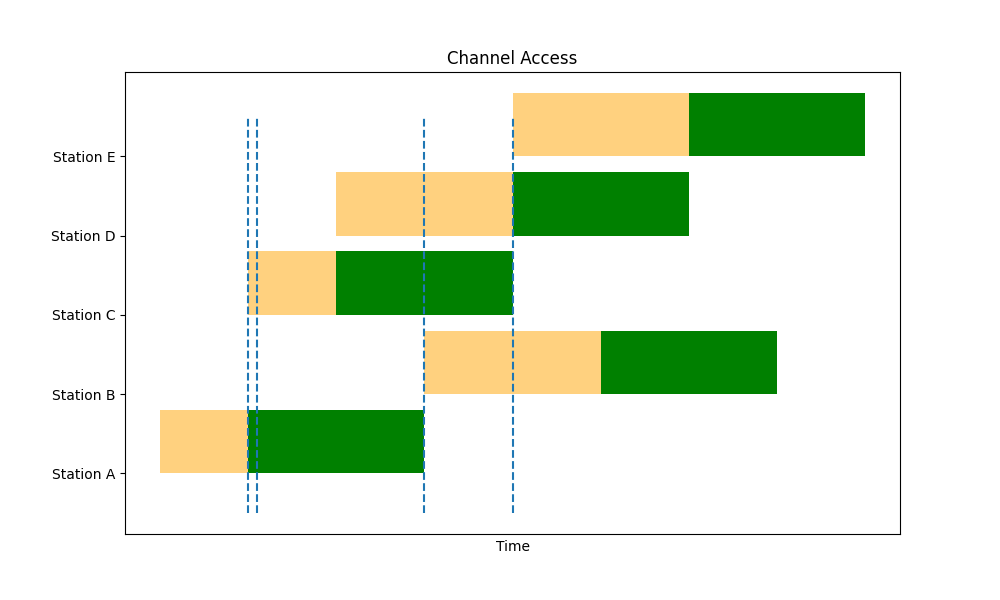
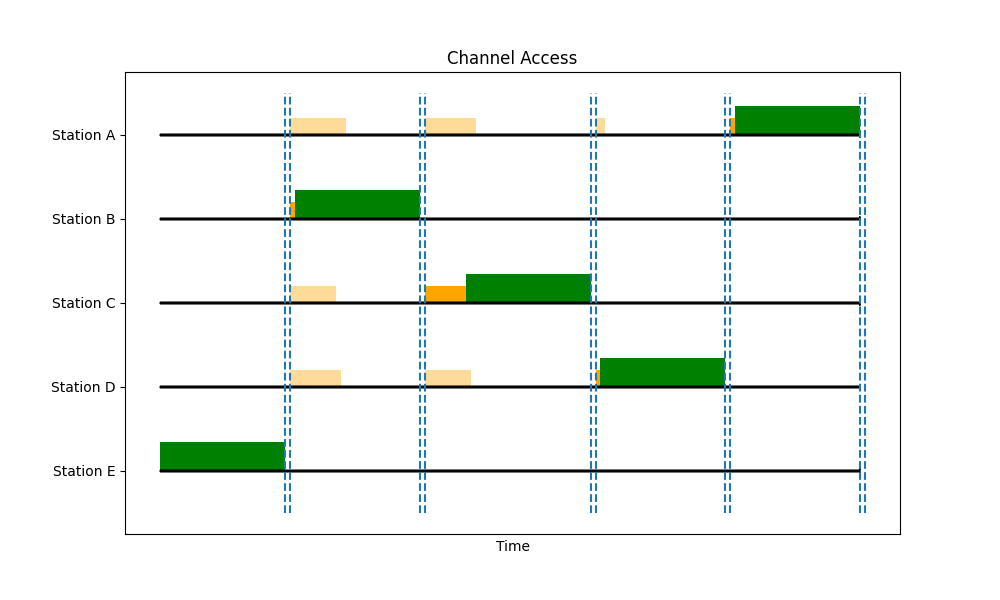
it's works I guess

diff --git a/main.py b/main.py
@@ -9,34 +9,74 @@ from random import randint
 import matplotlib.pyplot as plt
 import numpy as np
 
+sta_name = 'ABCDEFGHIJKLMNOPQRSTUVWXYZ'
 slot_time = 20
 CW = 0
-difs = 20
+difs = 400
+frame_len=10000
+next_frame = 0
+end = 0
+csta = lambda quantity : [(randint(7,256) - randint(0,CW))*slot_time for _ in range(quantity)] # creating and setting random backoff peroid for Stations
 
-random = lambda x : randint(7,256) - randint(0,x)
-csta = lambda quantity : [random(CW)*slot_time for _ in range(quantity)]
+noc = 26 #no of clients
+sta_data = np.array(csta(noc))
+print(sta_data)
+stations = [f'Station {_}' for _ in sta_name[:noc]]
+frame_data = [(0,0) for _ in range(len(sta_data))]
+cw_data = [(0,0) for _ in range(len(sta_data))]
+d_times = []
+sta = list(sta_data)
+rcw_data = [(0,0)  for _ in sta]
 
-sta = np.array(csta(5))
-stations = ['Station A', 'Station B', 'Station C', 'Station D', 'Station E']
 
-frame_data = [(1, 3), (5, 7), (2, 4), (4, 6), (6, 8)] 
-defer_data = [(0, 1), (3, 5), (1, 2), (2, 4), (4, 6)] 
+def begin(client):
+    global next_frame,frame_len,frame_data,slot_time,end,cw_data,sta,difs,rcw_data
+    nos = len(client)
+    iter = 0
+    while nos > 0:
+        if 0 in client:
+            start = np.where(client == 0)[0][0] #
+            cw_data[start] = rcw_data[iter+start] 
+            next_data_frame = int(cw_data[start][-1]) #setting time of next frame which is data
+            end_data_frame = next_data_frame+frame_len #setting end of data frame
+            end_difs = end_data_frame+difs #setting end of DIFS
+            frame_data[start] = ((next_data_frame,end_data_frame))
+            d_times.append(end_data_frame)
+            d_times.append(end_difs)
+            for _ in client:
+                rcw_data.append((int(end_difs),int(end_difs)+_) if _ > 0 else (0,0)) #remain random backoff peroif of next slot
+            if nos == 1:
+                end = end_data_frame
+            nos -=1
+            iter += noc
+            client[0:] -= slot_time
+        else:client[0:] -= slot_time
 
-d_times = [1, 1.1, 3, 4]
+
+
+begin(sta_data)
 
 fig, ax = plt.subplots(figsize=(10, 6))
 
+
+# Plot RCW rectangles
+for i, (r_start, r_end) in enumerate(rcw_data):
+    ax.broken_barh([(r_start, r_end - r_start)], (i%noc, 0.2), facecolor='orange' ,alpha=0.4)
+
 # Plot FRAME rectangles
 for i, (f_start, f_end) in enumerate(frame_data):
-    ax.broken_barh([(f_start, f_end - f_start)], (i, 0.8), facecolor='green')
+    ax.broken_barh([(f_start, f_end - f_start)], (i, 0.35), facecolor='green')
 
 # Plot DEFER rectangles
-for i, (d_start, d_end) in enumerate(defer_data):
-    ax.broken_barh([(d_start, d_end - d_start)], (i, 0.8), facecolor='orange', alpha=0.5)
+for i, (d_start, d_end) in enumerate(cw_data):
+    ax.broken_barh([(d_start, d_end - d_start)], (i, 0.2), facecolor='orange')
 
 # Add DIFS markers
 for d in d_times:
     ax.vlines(d, ymin=-0.5, ymax=len(stations) - 0.5, linestyles='dashed')
+    
+for x in range(len(stations)):
+    ax.arrow(0,x,end,0,width=0.02,color='black')
 
 # Customize the plot
 ax.set_yticks(range(len(stations)))
@@ -46,5 +86,6 @@ ax.set_title('Channel Access')
 ax.set_xticks([])
 
 plt.show()
+#plt.savefig('Figure_1.png')
 
 
